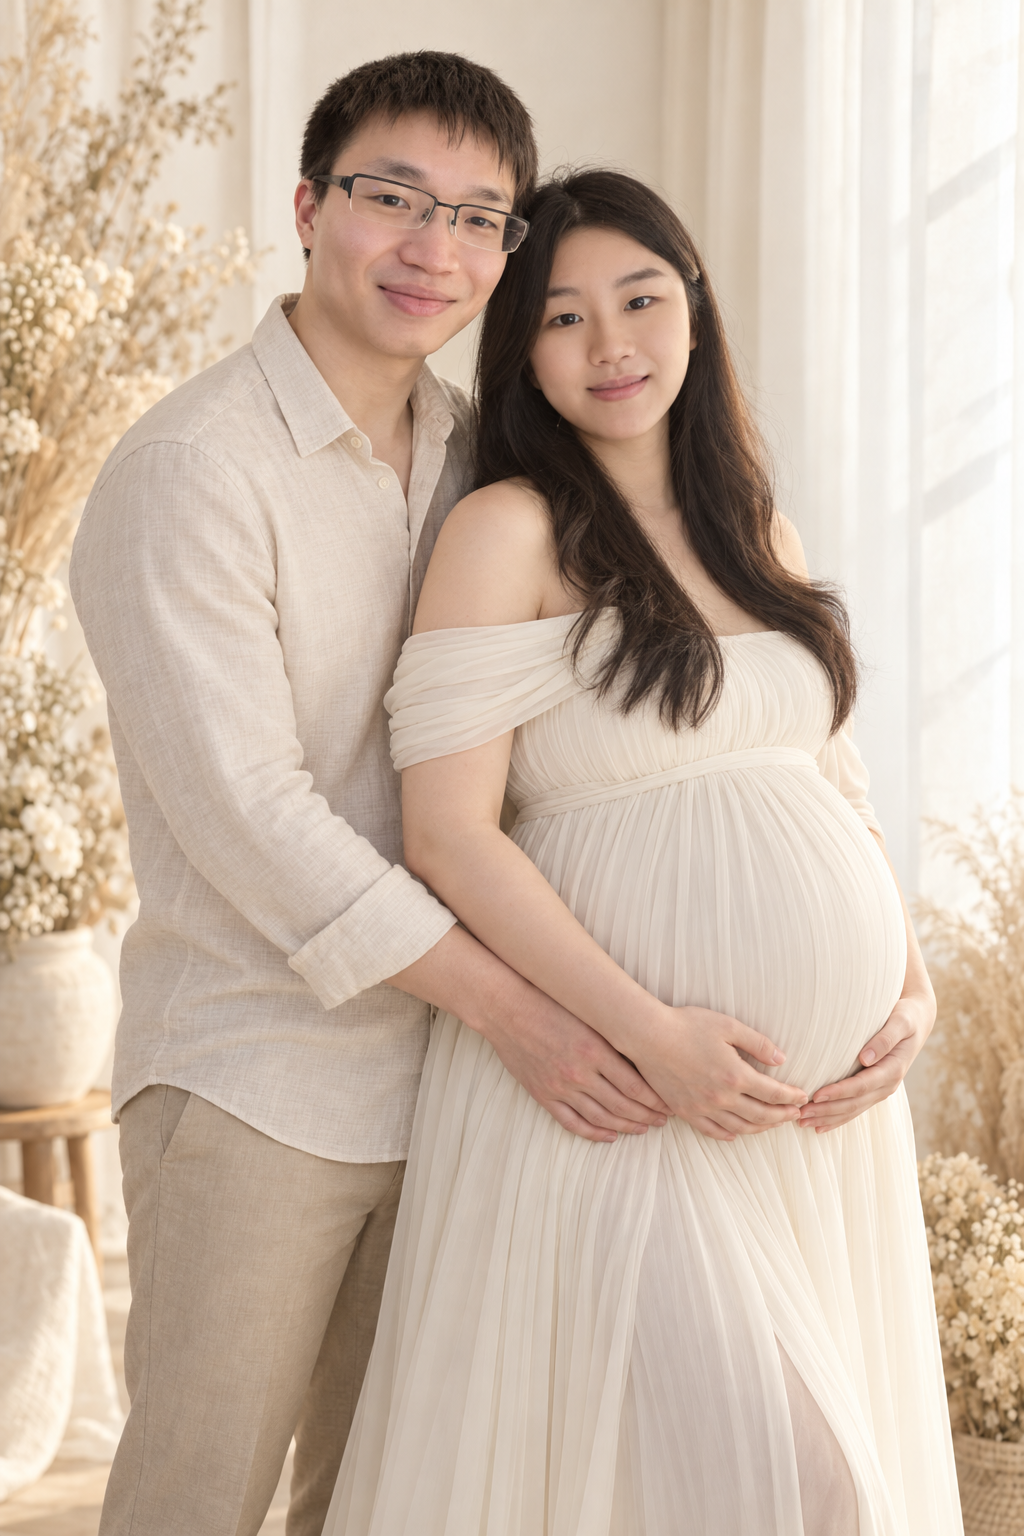
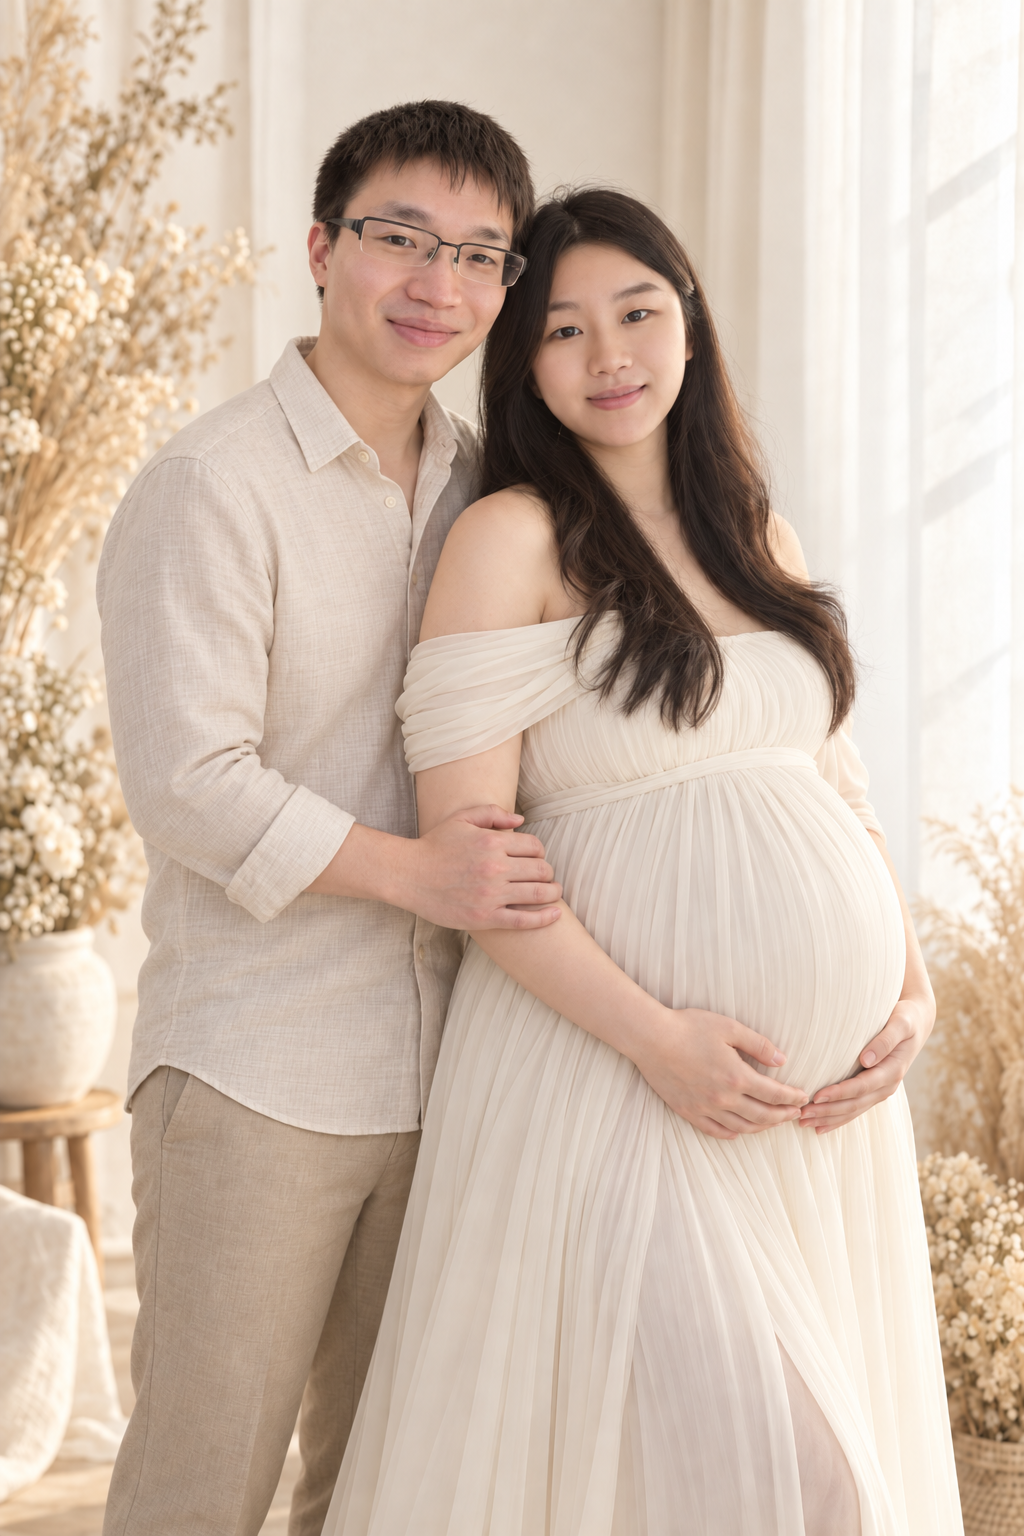
Correct husband body proportions in maternity portraits

diff --git a/photo/BODY_CORRECTION_PROMPTS.md b/photo/BODY_CORRECTION_PROMPTS.md
@@ -1,0 +1,17 @@
+# 夫妻合照身材修正提示词
+
+使用内置 `image_gen` 编辑。输入图 1 是对应的原版 AI 写真，输入图 2 是用户本次补充的真实全身合影，以全身照为男生身材和夫妻相对身高的主要参考。
+
+本次调整男生的相对身高、肩宽、躯干和四肢比例，保留各场景、服装与孕妇设定。下列为本次采用的完整编辑提示词。真实参考原图没有复制到仓库；修正前的写真可在 Git 历史中查看。
+
+## 01-ivory-studio.png
+
+Use case: identity-preserve, targeted correction of a maternity couple portrait. Input image 1 is the existing generated portrait to EDIT. Input image 2 is the authentic full-body photograph of the SAME adult husband on the left and wife on the right, and is the PRIMARY AUTHORITY for the husband's real physique, head-to-body ratio, shoulder width, torso length, arm and leg proportions, and height relative to his wife. The user reports the generated husband is physically inaccurate. Correct that visibly, rather than making a cosmetic change. In the real reference the spouses are close in height; he is only slightly taller, their shoulder levels and head sizes are close. In the generated portrait he has become disproportionately tall, large-framed and long-limbed compared to her. Reconstruct the husband's ordinary natural build to closely match image 2: less imposing relative size, modest natural shoulders, regular torso and limb lengths, no elongated model legs or broad fashion-model upper body. Place both on the same ground plane and distance from the camera; when upright his crown should be only a small amount above hers, not half a head or more. Match his original natural proportions, do not make him unnaturally thin, muscular, bulky, or childlike. Keep his adult facial identity, recognizable eyes, nose, mouth, jaw, hairstyle and rectangular eyeglasses; scale his head naturally with the corrected body and preserve facial likeness. His corrected neck, shoulders, elbow and hands must align anatomically. Keep the wife from IMAGE 1 unchanged in identity, head size, body, eight-month pregnancy bump, pose and dress. Preserve the existing scene, background, lighting, palette, photography quality, camera framing and facial expressions as closely as possible. Alter the husband's pose only as needed for realistic reach and contact after correcting his height. Do not resize the wife to fake the height correction, do not copy marriage certificates or the reference background, and do not simply shrink the entire image. Photorealistic, natural skin texture, correct hands and anatomy, vertical 2:3 standalone photo at the original resolution. No text, labels, collage, borders or watermark. Specific portrait: warm ivory studio. Preserve his ivory linen shirt and beige trousers, her ivory maternity gown, and gentle closed-mouth smiles. Correct his oversized shoulder/torso presence and height. A light supportive embrace with naturally bent elbows is fine, but avoid tangling four hands together.
+
+## 02-rose-garden.png
+
+Use case: identity-preserve, targeted correction of a maternity couple portrait. Input image 1 is the existing generated portrait to EDIT. Input image 2 is the authentic full-body photograph of the SAME adult husband on the left and wife on the right, and is the PRIMARY AUTHORITY for the husband's real physique, head-to-body ratio, shoulder width, torso length, arm and leg proportions, and height relative to his wife. The user reports the generated husband is physically inaccurate. Correct that visibly, rather than making a cosmetic change. In the real reference the spouses are close in height; he is only slightly taller, their shoulder levels and head sizes are close. In the generated portrait he has become disproportionately tall, large-framed and long-limbed compared to her. Reconstruct the husband's ordinary natural build to closely match image 2: less imposing relative size, modest natural shoulders, regular torso and limb lengths, no elongated model legs or broad fashion-model upper body. Place both on the same ground plane and distance from the camera; when upright his crown should be only a small amount above hers, not half a head or more. Match his original natural proportions, do not make him unnaturally thin, muscular, bulky, or childlike. Keep his adult facial identity, recognizable eyes, nose, mouth, jaw, hairstyle and rectangular eyeglasses; scale his head naturally with the corrected body and preserve facial likeness. His corrected neck, shoulders, elbow and hands must align anatomically. Keep the wife from IMAGE 1 unchanged in identity, head size, body, eight-month pregnancy bump, pose and dress. Preserve the existing scene, background, lighting, palette, photography quality, camera framing and facial expressions as closely as possible. Alter the husband's pose only as needed for realistic reach and contact after correcting his height. Do not resize the wife to fake the height correction, do not copy marriage certificates or the reference background, and do not simply shrink the entire image. Photorealistic, natural skin texture, correct hands and anatomy, vertical 2:3 standalone photo at the original resolution. No text, labels, collage, borders or watermark. Specific portrait: rose garden. Preserve his white shirt and taupe trousers, her pink maternity dress and their existing natural smiles. His head and shoulders should sit much closer to hers in height, matching the real couple reference. Keep her hands on her bump and his outer arm relaxed; the arm around her upper back must have a plausible reach.
+
+## 03-sunset-beach.png
+
+Use case: identity-preserve, targeted correction of a maternity couple portrait. Input image 1 is the existing generated portrait to EDIT. Input image 2 is the authentic full-body photograph of the SAME adult husband on the left and wife on the right, and is the PRIMARY AUTHORITY for the husband's real physique, head-to-body ratio, shoulder width, torso length, arm and leg proportions, and height relative to his wife. The user reports the generated husband is physically inaccurate. Correct that visibly, rather than making a cosmetic change. In the real reference the spouses are close in height; he is only slightly taller, their shoulder levels and head sizes are close. In the generated portrait he has become disproportionately tall, large-framed and long-limbed compared to her. Reconstruct the husband's ordinary natural build to closely match image 2: less imposing relative size, modest natural shoulders, regular torso and limb lengths, no elongated model legs or broad fashion-model upper body. Place both on the same ground plane and distance from the camera; when upright his crown should be only a small amount above hers, not half a head or more. Match his original natural proportions, do not make him unnaturally thin, muscular, bulky, or childlike. Keep his adult facial identity, recognizable eyes, nose, mouth, jaw, hairstyle and rectangular eyeglasses; scale his head naturally with the corrected body and preserve facial likeness. His corrected neck, shoulders, elbow and hands must align anatomically. Keep the wife from IMAGE 1 unchanged in identity, head size, body, eight-month pregnancy bump, pose and dress. Preserve the existing scene, background, lighting, palette, photography quality, camera framing and facial expressions as closely as possible. Alter the husband's pose only as needed for realistic reach and contact after correcting his height. Do not resize the wife to fake the height correction, do not copy marriage certificates or the reference background, and do not simply shrink the entire image. Photorealistic, natural skin texture, correct hands and anatomy, vertical 2:3 standalone photo at the original resolution. No text, labels, collage, borders or watermark. Specific portrait: sunset beach. Preserve his ivory shirt and sand-colored trousers, her dusty-blue dress, sea and sunset. Most importantly correct his elongated legs, overall height and oversized stature compared with his wife. Use realistic ordinary adult body proportions from image 2, keep their bare feet on the same sand plane and his head only slightly higher. Preserve their warm existing smiles and gentle closeness.

diff --git a/photo/README.md b/photo/README.md
@@ -4,6 +4,8 @@
 
 共 5 张竖版 PNG：3 张夫妻合照、2 张孕妇单人照，分辨率均为 1024 × 1536。保留参考照片中的人物特征，搭配不同场景和自然笑容。
 
+**身材修正版（2026-09-25）：** 三张夫妻合照已依据用户补充的真实全身照重新编辑，调整男生的相对身高、肩宽、躯干与四肢比例。下方展示的是修正版，原版保存在 Git 历史中。完整编辑提示词见 [身材修正提示词](BODY_CORRECTION_PROMPTS.md)。
+
 | 照片 | 场景与表情 | 查看原图 |
 | --- | --- | --- |
 | 01 夫妻合照 | 奶油色影棚，温柔闭口微笑 | [原图](01-ivory-studio.png) |
@@ -24,7 +26,7 @@
 
 生成方式：内置 `image_gen`。前 3 张的完整提示词如下，新增单人照的完整提示词见 [单人照提示词](SOLO_PROMPTS.md)。
 
-## 完整生成提示词
+## 初版生成提示词（留档）
 
 ### 1
 
